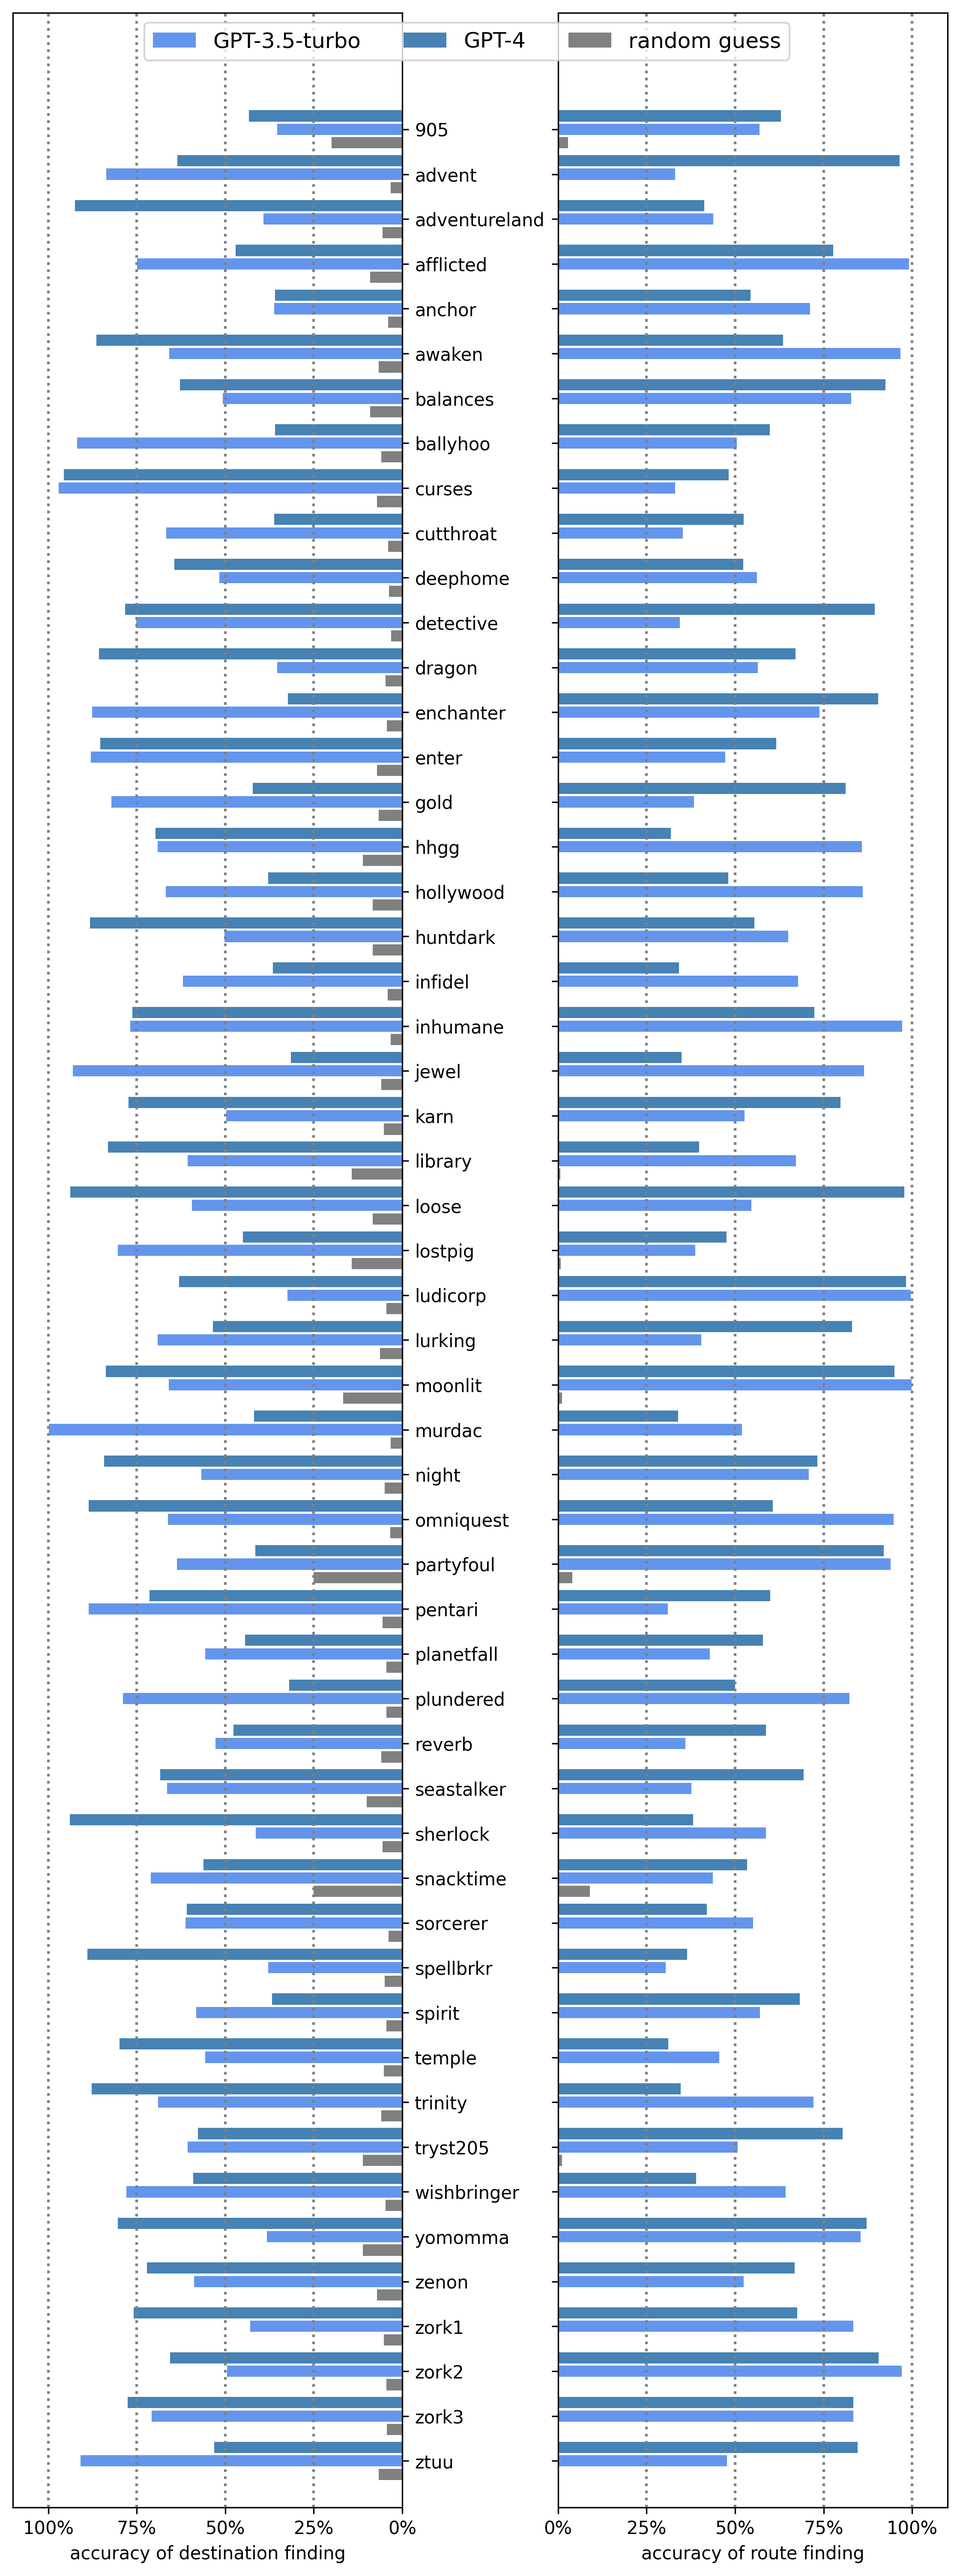
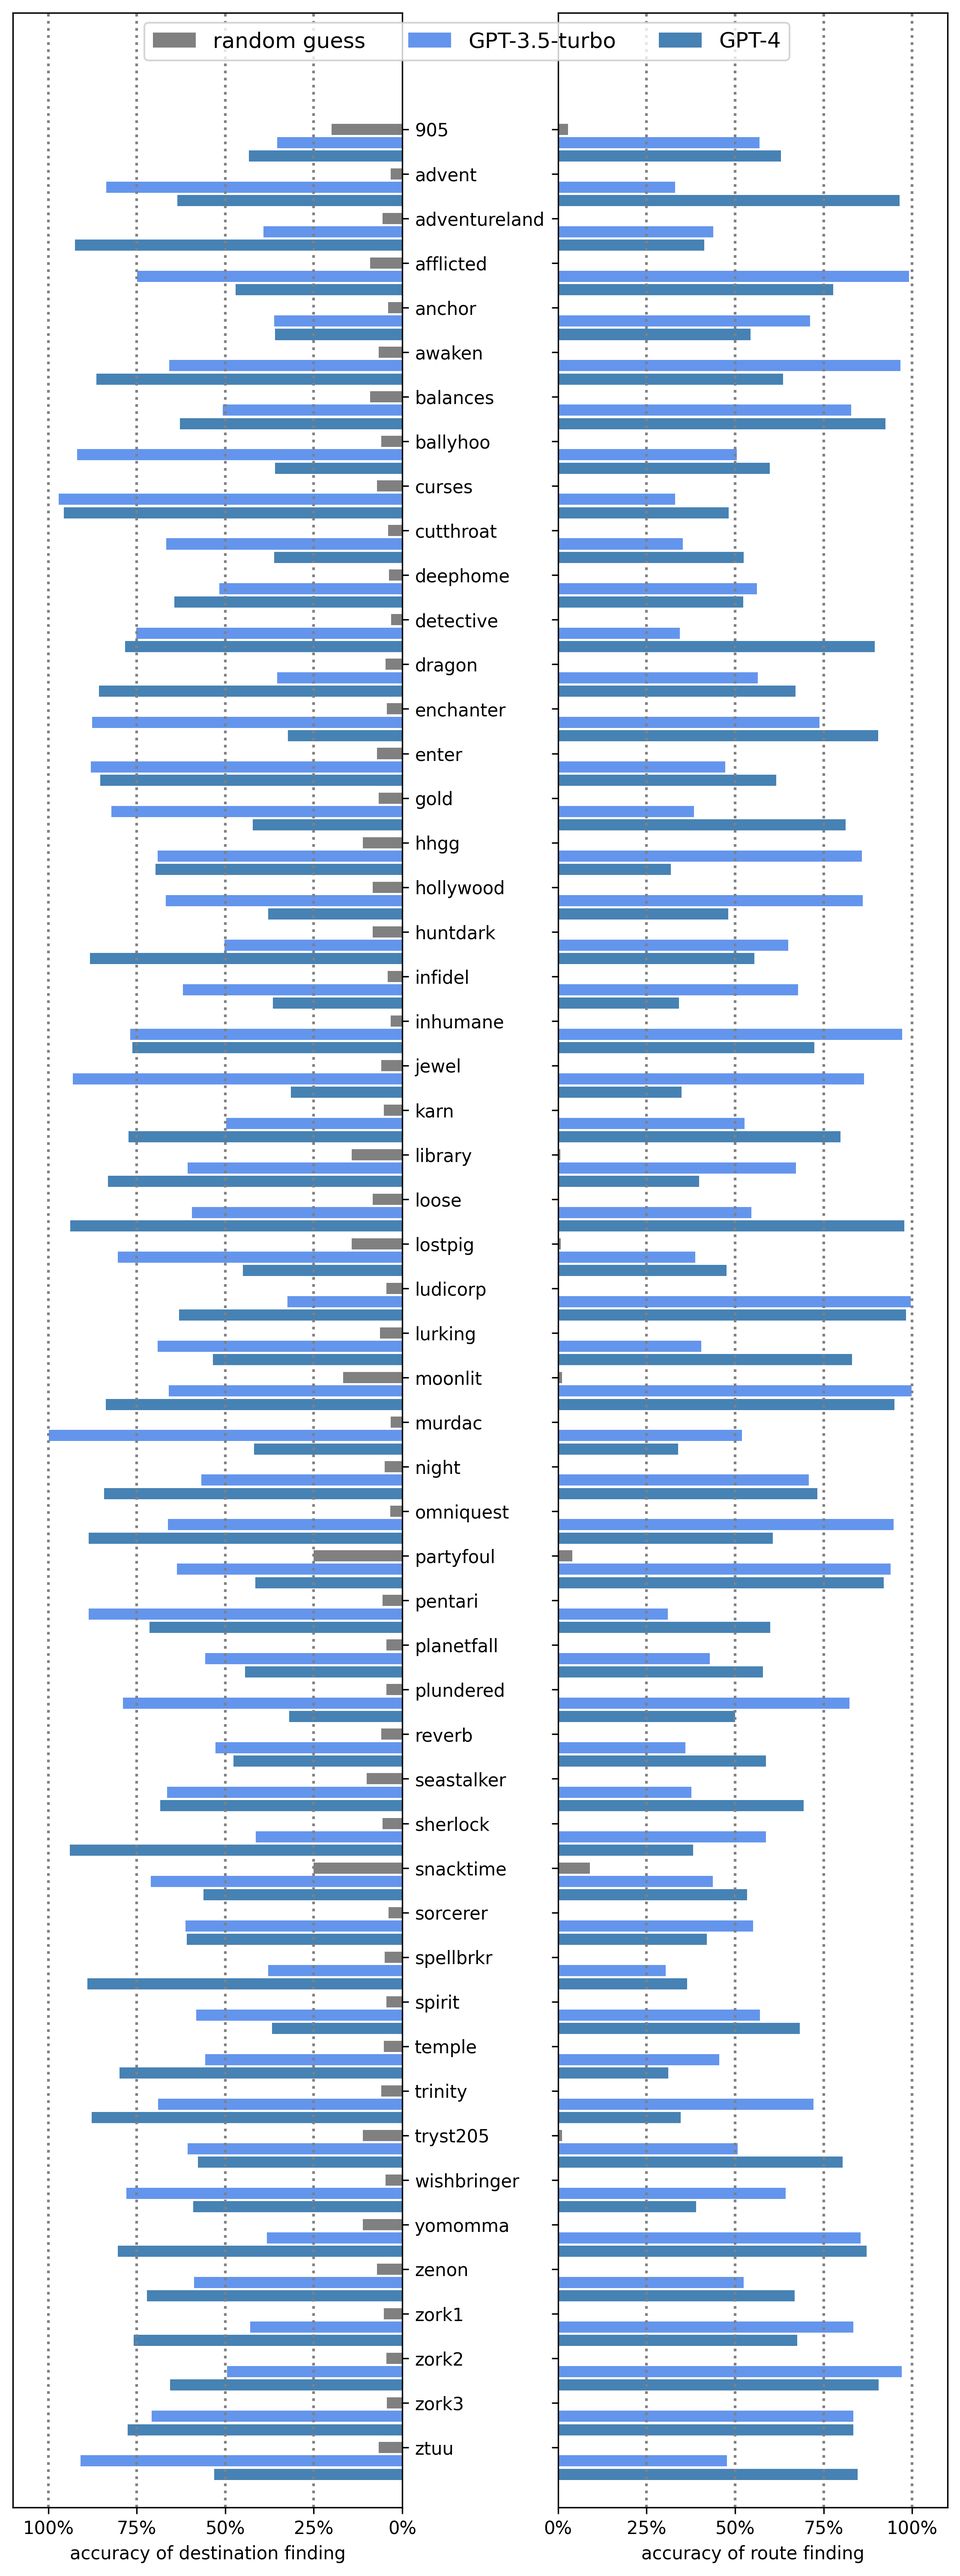
reorder bar seq: random, gpt3.5, gpt4

diff --git a/src/gen_plots/gpt.together.py b/src/gen_plots/gpt.together.py
@@ -66,43 +66,43 @@ bar_width = 5
 space_btw_bar = 1
 
 # Set the positions of the bars on the x-axis
-r1 = np.arange(len(game_names)) * 20
-r2 = [x + (bar_width + space_btw_bar) for x in r1]
-r3 = [x - (bar_width + space_btw_bar) for x in r1]
+r2 = np.arange(len(game_names)) * 20
+r1 = [x + (bar_width + space_btw_bar) for x in r2]
+r3 = [x - (bar_width + space_btw_bar) for x in r2]
 
 # Plot the scores for DF - Model 1, Model 2, and Random
 ax1.barh(
     r1,
-    model1_scores_DF,
-    height=bar_width,
-    label="GPT-3.5-turbo",
-    color=COLOR_MAP["gpt3.5"],
-)
-ax1.barh(r2, model2_scores_DF, height=bar_width, label="GPT-4", color=COLOR_MAP["gpt4"])
-ax1.barh(
-    r3,
     random_scores_DF,
     height=bar_width,
     label="random guess",
     color=COLOR_MAP["random"],
 )
-
-# Plot the scores for RF - Model 1, Model 2, and Random
-ax2.barh(
-    r1,
-    model1_scores_RF,
+ax1.barh(
+    r2,
+    model1_scores_DF,
     height=bar_width,
     label="GPT-3.5-turbo",
     color=COLOR_MAP["gpt3.5"],
 )
-ax2.barh(r2, model2_scores_RF, height=bar_width, label="GPT-4", color=COLOR_MAP["gpt4"])
+ax1.barh(r3, model2_scores_DF, height=bar_width, label="GPT-4", color=COLOR_MAP["gpt4"])
+
+# Plot the scores for RF - Model 1, Model 2, and Random
 ax2.barh(
-    r3,
+    r1,
     random_scores_RF,
     height=bar_width,
     label="random guess",
     color=COLOR_MAP["random"],
 )
+ax2.barh(
+    r2,
+    model1_scores_RF,
+    height=bar_width,
+    label="GPT-3.5-turbo",
+    color=COLOR_MAP["gpt3.5"],
+)
+ax2.barh(r3, model2_scores_RF, height=bar_width, label="GPT-4", color=COLOR_MAP["gpt4"])
 
 # Set the y-axis labels as test names
 whitespace = 0.02 * max(r1)

diff --git a/src/gen_plots/gpt.destination.py b/src/gen_plots/gpt.destination.py
@@ -62,22 +62,22 @@ bar_width = 5
 space_btw_bar = 1
 
 # Set the positions of the bars on the x-axis
-r1 = np.arange(len(game_names)) * 20
-r2 = [x + (bar_width + space_btw_bar) for x in r1]
-r3 = [x - (bar_width + space_btw_bar) for x in r1]
+r2 = np.arange(len(game_names)) * 20
+r1 = [x + (bar_width + space_btw_bar) for x in r2]
+r3 = [x - (bar_width + space_btw_bar) for x in r2]
 
 # Make the plot
 plt.barh(
-    r1,
+    r1, random_scores, height=bar_width, label="random guess", color=COLOR_MAP["random"]
+)
+plt.barh(
+    r2,
     model1_scores,
     height=bar_width,
     label="GPT-3.5-turbo",
     color=COLOR_MAP["gpt3.5"],
 )
-plt.barh(r2, model2_scores, height=bar_width, label="GPT-4", color=COLOR_MAP["gpt4"])
-plt.barh(
-    r3, random_scores, height=bar_width, label="random guess", color=COLOR_MAP["random"]
-)
+plt.barh(r3, model2_scores, height=bar_width, label="GPT-4", color=COLOR_MAP["gpt4"])
 
 # Set the y-axis labels as test names
 whitespace = 0.02 * max(r1)

diff --git a/src/gen_plots/gpt.route.py b/src/gen_plots/gpt.route.py
@@ -62,22 +62,22 @@ bar_width = 5
 space_btw_bar = 1
 
 # Set the positions of the bars on the x-axis
-r1 = np.arange(len(game_names)) * 20
-r2 = [x + (bar_width + space_btw_bar) for x in r1]
-r3 = [x - (bar_width + space_btw_bar) for x in r1]
+r2 = np.arange(len(game_names)) * 20
+r1 = [x + (bar_width + space_btw_bar) for x in r2]
+r3 = [x - (bar_width + space_btw_bar) for x in r2]
 
 # Make the plot
 plt.barh(
-    r1,
+    r1, random_scores, height=bar_width, label="random guess", color=COLOR_MAP["random"]
+)
+plt.barh(
+    r2,
     model1_scores,
     height=bar_width,
     label="GPT-3.5-turbo",
     color=COLOR_MAP["gpt3.5"],
 )
-plt.barh(r2, model2_scores, height=bar_width, label="GPT-4", color=COLOR_MAP["gpt4"])
-plt.barh(
-    r3, random_scores, height=bar_width, label="random guess", color=COLOR_MAP["random"]
-)
+plt.barh(r3, model2_scores, height=bar_width, label="GPT-4", color=COLOR_MAP["gpt4"])
 
 # Set the y-axis labels as test names
 whitespace = 0.02 * max(r1)
